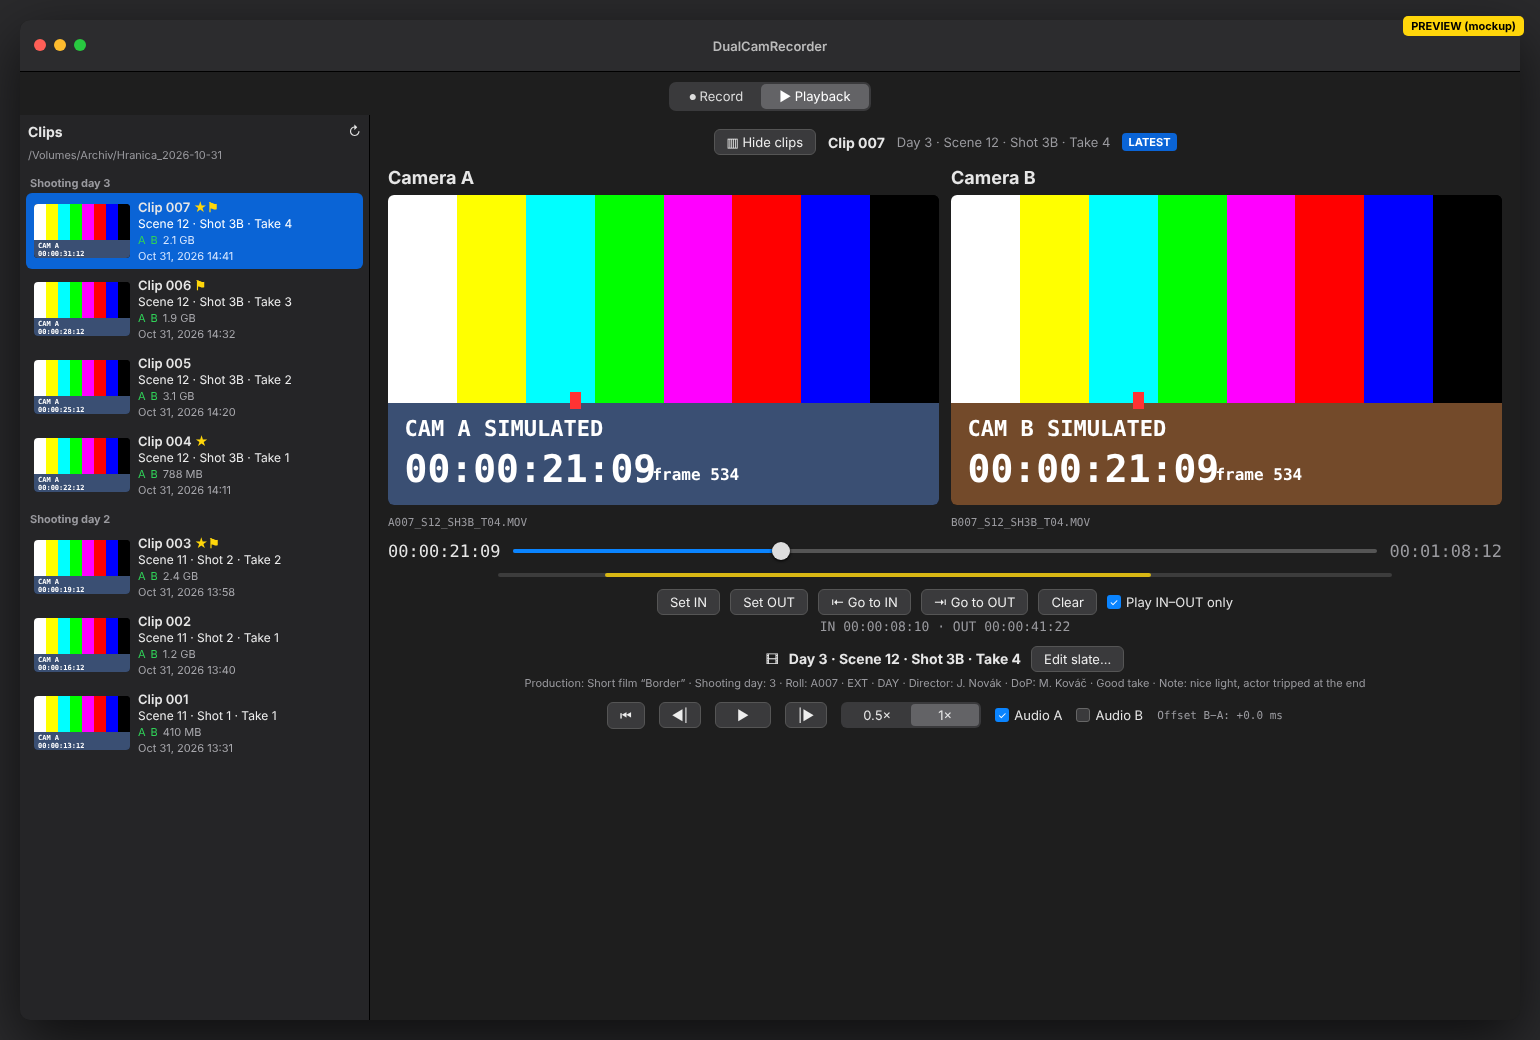
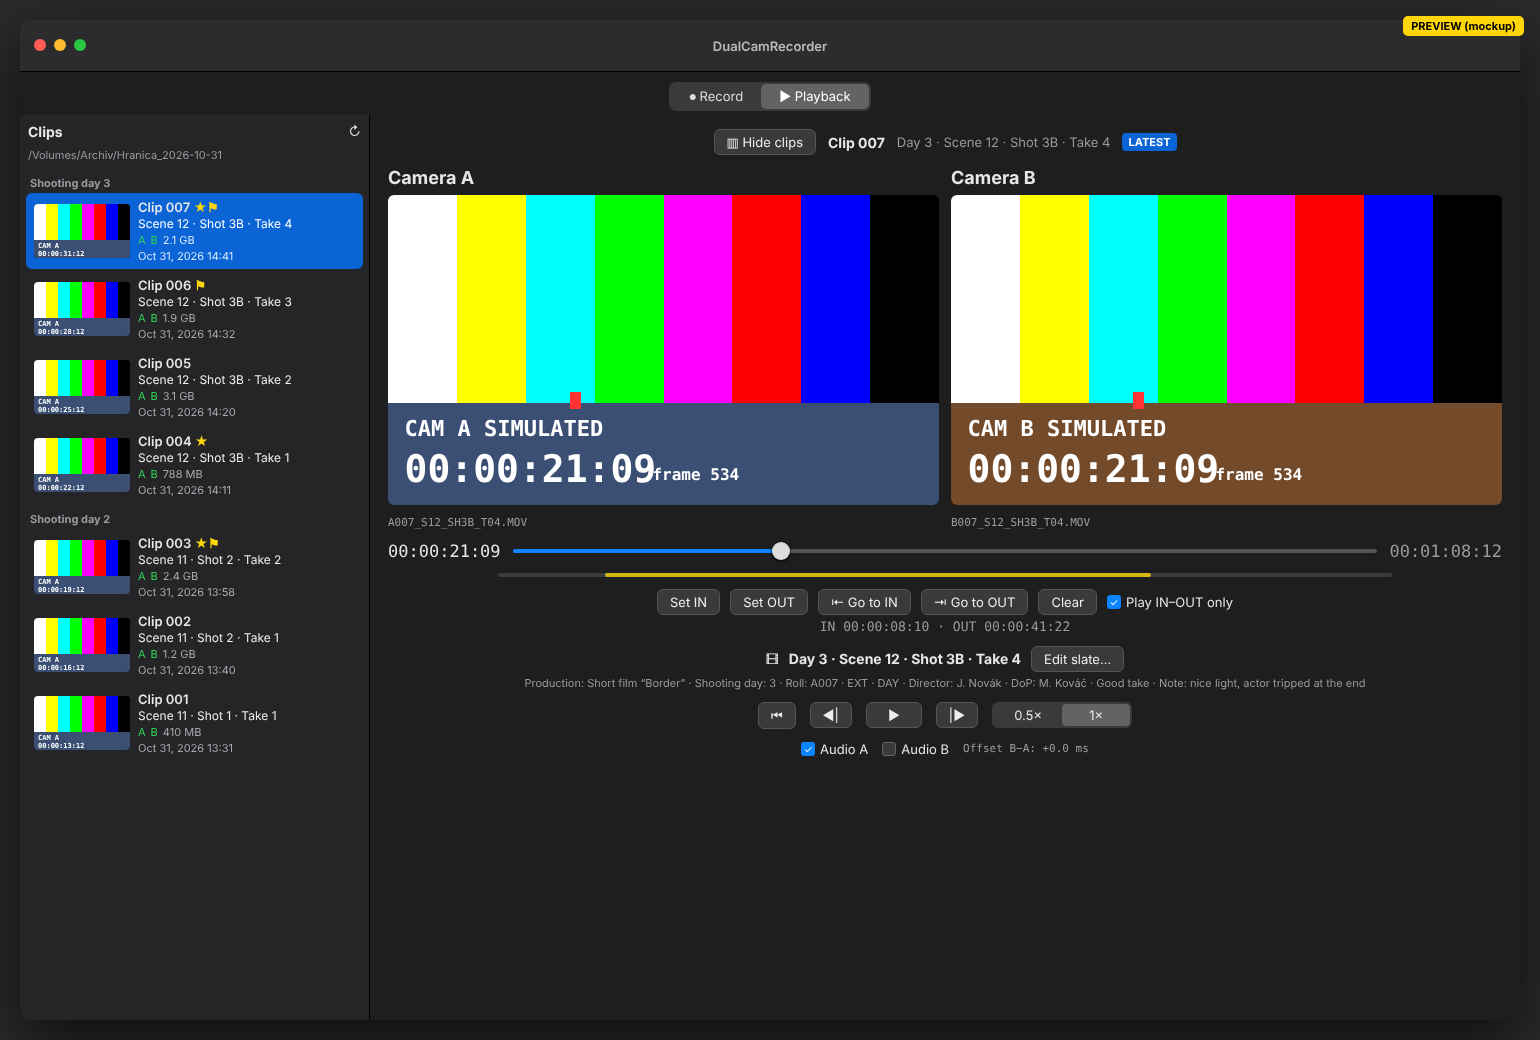
Put audio toggles on their own row below the playback buttons
Claude-Session: https://claude.ai/code/session_01SjxyfTkJQH7RKsrkA8EJQA

Changed region(s): [[0.374, 0.6769, 0.7481, 0.7385]]

diff --git a/DualCamRecorder/Views/PlaybackView.swift b/DualCamRecorder/Views/PlaybackView.swift
@@ -339,7 +339,12 @@ struct PlaybackView: View {
                 }
                 .pickerStyle(.segmented)
                 .frame(width: 140)
+            }
+            .frame(maxWidth: .infinity)
+            .disabled(player.take == nil)
 
+            // Audio on its own row.
+            HStack(spacing: 14) {
                 Toggle("Audio A", isOn: $player.audioA)
                 Toggle("Audio B", isOn: $player.audioB)
 
